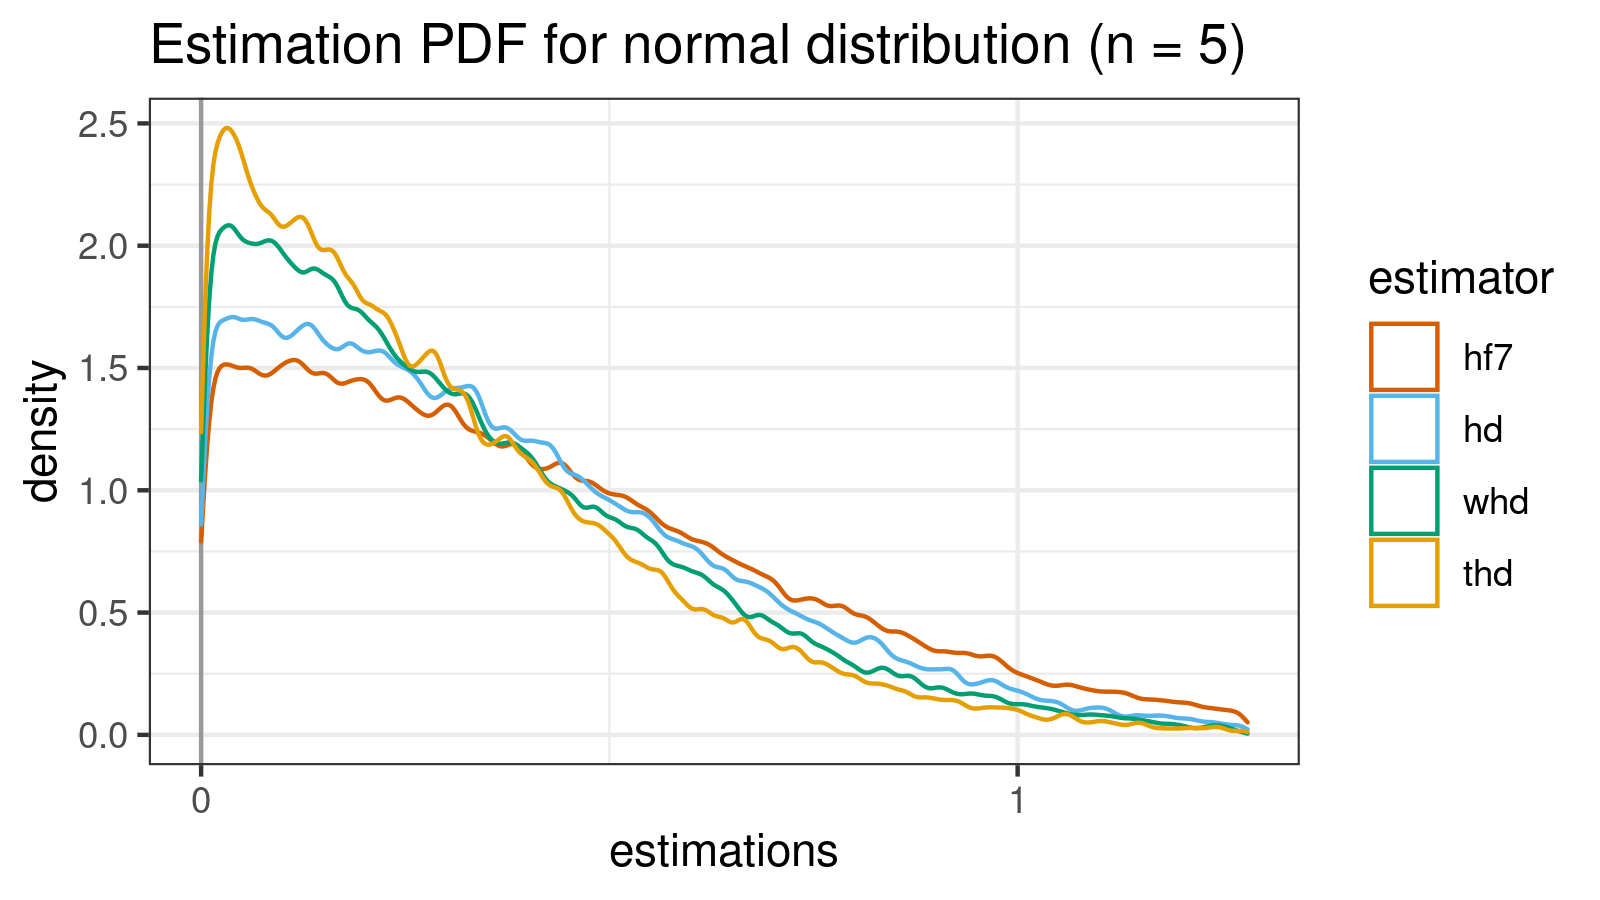
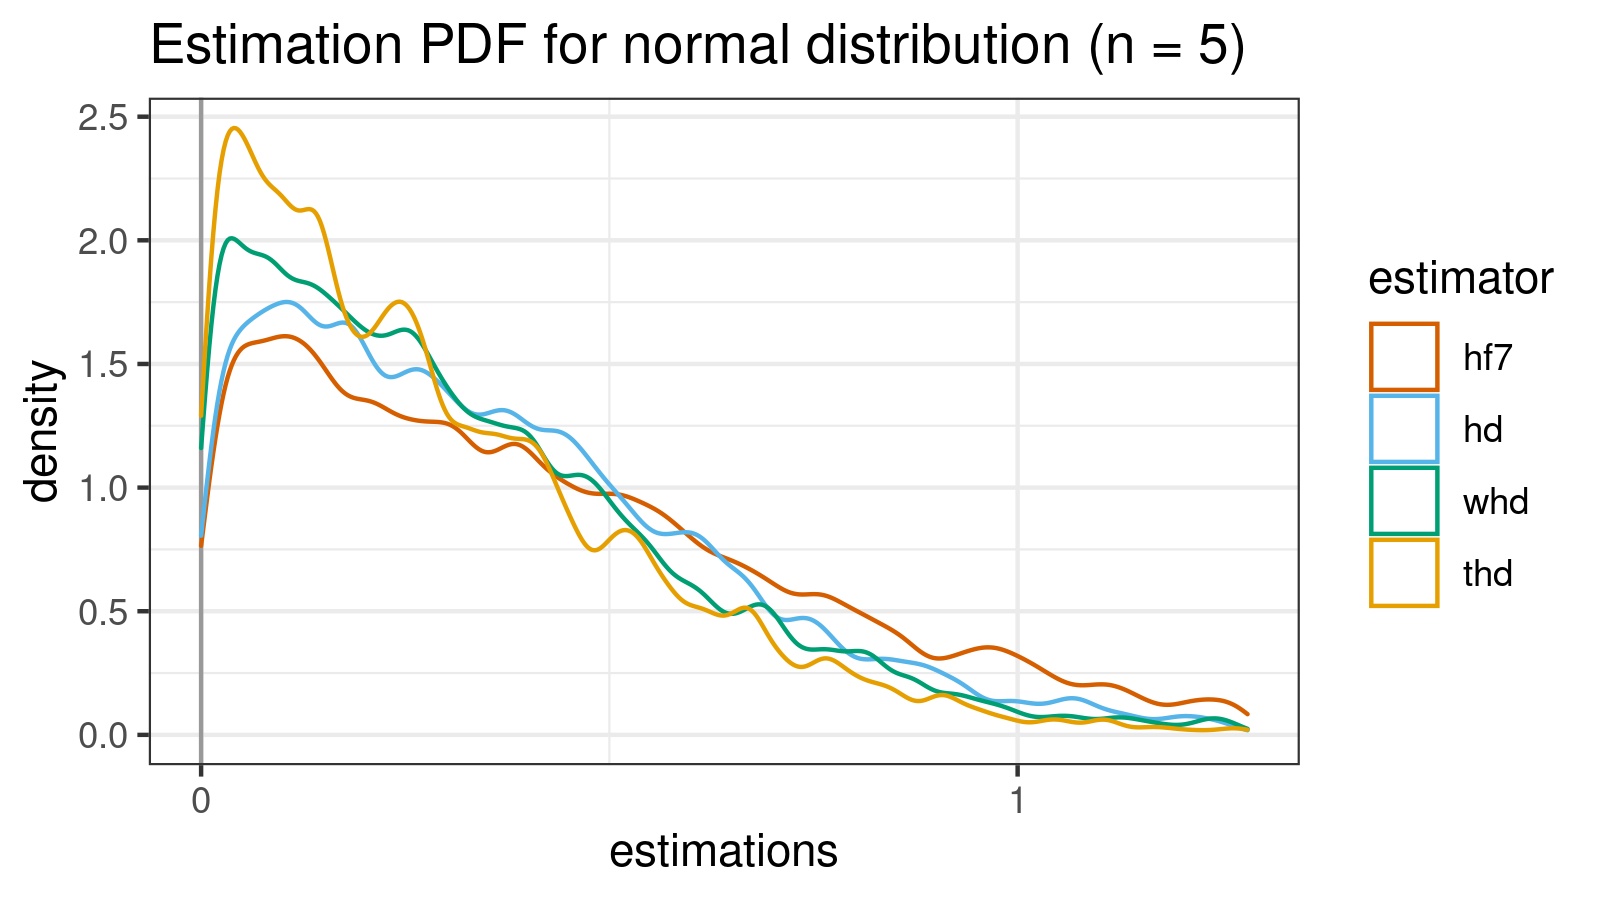
Update customized-wthdqe

diff --git a/content/en/posts/2021/05/customized-wthdqe/index.md b/content/en/posts/2021/05/customized-wthdqe/index.md
@@ -186,13 +186,14 @@ Let's start with the normal distribution (which is symmetric and light-tailed) t
 {{< imgld normal5 >}}
 
 ```js
- estimator   bias    mse    p25    p50    p75    p90    p95    p99
-       hf7 1.9989 4.2806 1.6406 1.9986 2.3571 2.6808 2.8774 3.2498
-        hd 1.9983 4.2088 1.6835 2.0003 2.3115 2.5946 2.7598 3.0799
-       whd 2.1971 5.0761 1.8597 2.1935 2.5307 2.8371 3.0237 3.3723
-       thd 2.2851 5.4642 1.9532 2.2805 2.6133 2.9198 3.1023 3.4480
+ estimator       bias     mse     p25     p50     p75     p90     p95    p99
+       hf7 -0.0016329 0.29153 0.16804 0.36103 0.61964 0.89926 1.06836 1.3611
+        hd -0.0056730 0.21042 0.14671 0.31081 0.52609 0.74722 0.89905 1.1936
+       whd -0.1920940 0.28335 0.17178 0.36076 0.60780 0.87269 1.04119 1.3885
+       thd -0.2879419 0.32841 0.18283 0.38710 0.65326 0.94229 1.14017 1.4771
 ```
 
+TODO: rewrite
 As we can see, `hf7` and `hd` give pretty similar results.
 In this particular case, `whd` and `thd` give worse results (but they are still pretty acceptable)
 It's an expected situation because our winsorizing/trimming strategy is "overfitted" to the right-skewed case
@@ -207,11 +208,11 @@ Now it's time to check our estimators on the most complicated case:
 {{< imgld pareto3 >}}
 
 ```js
- estimator   bias       mse     p25     p50     p75    p90     p95    p99
-       hf7 1.5123    62.215 0.32717 0.63312 1.06588 3.1005  5.3714 15.368
-        hd 8.9820 53457.769 0.37791 0.82852 2.94861 8.5900 17.2297 82.489
-       whd 1.1791    13.033 0.32245 0.61093 0.89666 2.2888  3.9940 11.355
-       thd 1.0959    10.468 0.32505 0.60616 0.87402 2.0557  3.6763 10.116
+ estimator     bias        mse     p25     p50     p75    p90     p95    p99
+       hf7  0.96402     14.093 0.33215 0.63298 1.09961 3.1286  5.4061 15.677
+        hd 12.75015 175467.942 0.37914 0.84069 3.02464 8.9115 18.5175 90.129
+       whd  0.62981     14.147 0.32802 0.61526 0.89961 2.4955  4.2395 11.140
+       thd  0.48012     23.503 0.33245 0.61360 0.88120 1.9543  3.4305  9.819
 ```
 
 Expectedly, `hd` has the worst error values because of its zero breakdown point.
@@ -225,11 +226,11 @@ Let's see what happens for higher $n$ values.
 {{< imgld pareto4 >}}
 
 ```js
- estimator   bias        mse     p25     p50    p75    p90     p95    p99
-       hf7 1.3685     17.729 0.28709 0.58347 1.2009 3.0084  4.9603 12.553
-        hd 8.9832 341193.607 0.35421 0.82811 2.6347 6.9242 13.0648 55.666
-       whd 1.3481     75.375 0.28768 0.57450 1.1052 2.8478  4.7321 12.135
-       thd 1.2203    159.813 0.27968 0.55621 0.9480 2.5127  4.1917 10.584
+ estimator    bias      mse     p25     p50     p75    p90     p95    p99
+       hf7 0.99630   13.376 0.28927 0.58443 1.22370 3.1813  5.1862 12.015
+        hd 4.33302 1376.949 0.35408 0.81399 2.56402 6.8722 12.2750 53.703
+       whd 0.95874   25.060 0.28729 0.57546 1.12468 2.9193  4.8311 12.190
+       thd 0.72518   11.554 0.27726 0.54553 0.91749 2.3926  4.0997 10.723
 ```
 
 #### Pareto distribution (n = 5)
@@ -237,11 +238,11 @@ Let's see what happens for higher $n$ values.
 {{< imgld pareto5 >}}
 
 ```js
- estimator    bias        mse     p25     p50     p75    p90    p95     p99
-       hf7 0.93476 3.6081e+00 0.26418 0.52748 0.85761 2.0465 3.2767  7.5615
-        hd 6.89114 9.5374e+05 0.32004 0.74949 2.20399 5.3076 9.3283 34.6076
-       whd 0.75266 1.9533e+00 0.26330 0.51288 0.77389 1.4601 2.3995  5.3516
-       thd 0.67432 1.3032e+00 0.26495 0.50669 0.75081 1.1632 1.9720  4.4307
+ estimator     bias        mse     p25     p50     p75    p90    p95     p99
+       hf7 0.504146     5.2105 0.26675 0.52613 0.87303 2.1065 3.3679  7.2826
+        hd 4.396743 22596.2795 0.31288 0.74502 2.24599 5.3275 9.3600 34.9101
+       whd 0.231205     2.1152 0.26279 0.50793 0.77450 1.4745 2.4296  5.8547
+       thd 0.067092     1.6300 0.26268 0.50467 0.74328 1.1175 1.9506  4.6478
 ```
 
 #### Pareto distribution (n = 6)
@@ -250,10 +251,10 @@ Let's see what happens for higher $n$ values.
 
 ```js
  estimator    bias       mse     p25     p50     p75    p90    p95     p99
-       hf7 0.86396    3.1662 0.24138 0.49037 0.84813 1.9343 3.0090  6.4052
-        hd 2.45124 1146.6008 0.29475 0.67508 1.83344 4.1168 6.7717 21.5434
-       whd 0.80034    2.5351 0.23669 0.47788 0.78792 1.7473 2.7498  5.8945
-       thd 0.70381    1.6713 0.23367 0.46480 0.73381 1.4345 2.2906  4.9982
+       hf7 0.51371    2.5938 0.23690 0.48757 0.86252 2.0152 3.0778  6.4690
+        hd 2.46898 1195.1400 0.29120 0.66492 1.78711 4.0332 6.8272 20.9587
+       whd 0.42000    2.5518 0.23282 0.47884 0.79029 1.7981 2.8478  6.0907
+       thd 0.25985    1.4532 0.23638 0.46981 0.74189 1.4778 2.3190  4.9017
 ```
 
 #### Pareto distribution (n = 7)
@@ -261,11 +262,11 @@ Let's see what happens for higher $n$ values.
 {{< imgld pareto7 >}}
 
 ```js
- estimator    bias        mse     p25     p50     p75     p90    p95     p99
-       hf7 0.72789 1.7341e+00 0.22666 0.46096 0.75719 1.58315 2.4422  5.0349
-        hd 3.81677 4.7061e+05 0.25941 0.58495 1.49718 3.19833 4.9741 12.9881
-       whd 0.59597 9.2458e-01 0.22620 0.44712 0.68831 1.09442 1.7404  3.6767
-       thd 0.54333 6.5777e-01 0.23242 0.44939 0.67056 0.88692 1.3906  2.9339
+ estimator      bias        mse     p25     p50     p75    p90    p95     p99
+       hf7  0.337121    1.85904 0.23519 0.46158 0.75627 1.5838 2.4504  5.3569
+        hd  1.975857 1989.76770 0.26722 0.60452 1.52104 3.2602 5.0468 13.5435
+       whd  0.082059    0.88772 0.23247 0.44718 0.68616 1.0932 1.7480  3.8571
+       thd -0.039714    0.68217 0.23089 0.45429 0.67313 0.8878 1.3837  3.0663
 ```
 
 ### Conclusion
